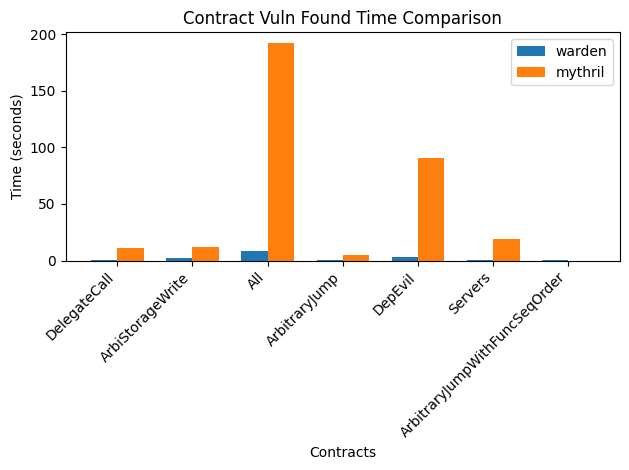
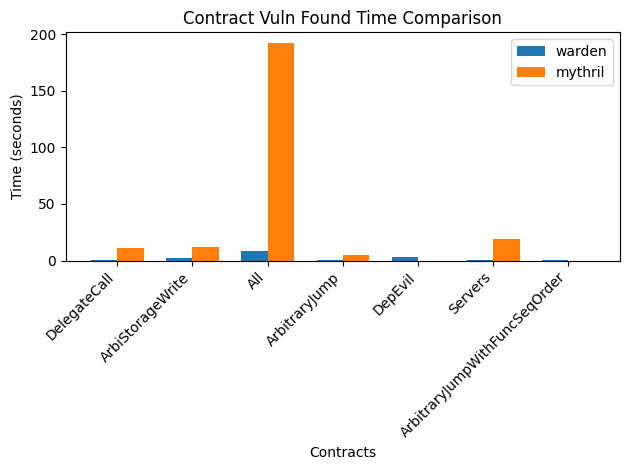
updated

Changed region(s): [[0.6645, 0.3277, 0.725, 0.566]]

diff --git a/script/draw.py b/script/draw.py
@@ -11,7 +11,7 @@ datas = [
     ('ArbiStorageWrite', 2.3, 12.13),
     ('All', 8.69, 191.93),
     ('ArbitraryJump', 0.12, 4.5),
-    ('DepEvil', 3.12, 90.14),
+    ('DepEvil', 3.12, 0),
     ('Servers', 0.37, 19.45),
     ('ArbitraryJumpWithFuncSeqOrder', 0.37, 0),
 ]
